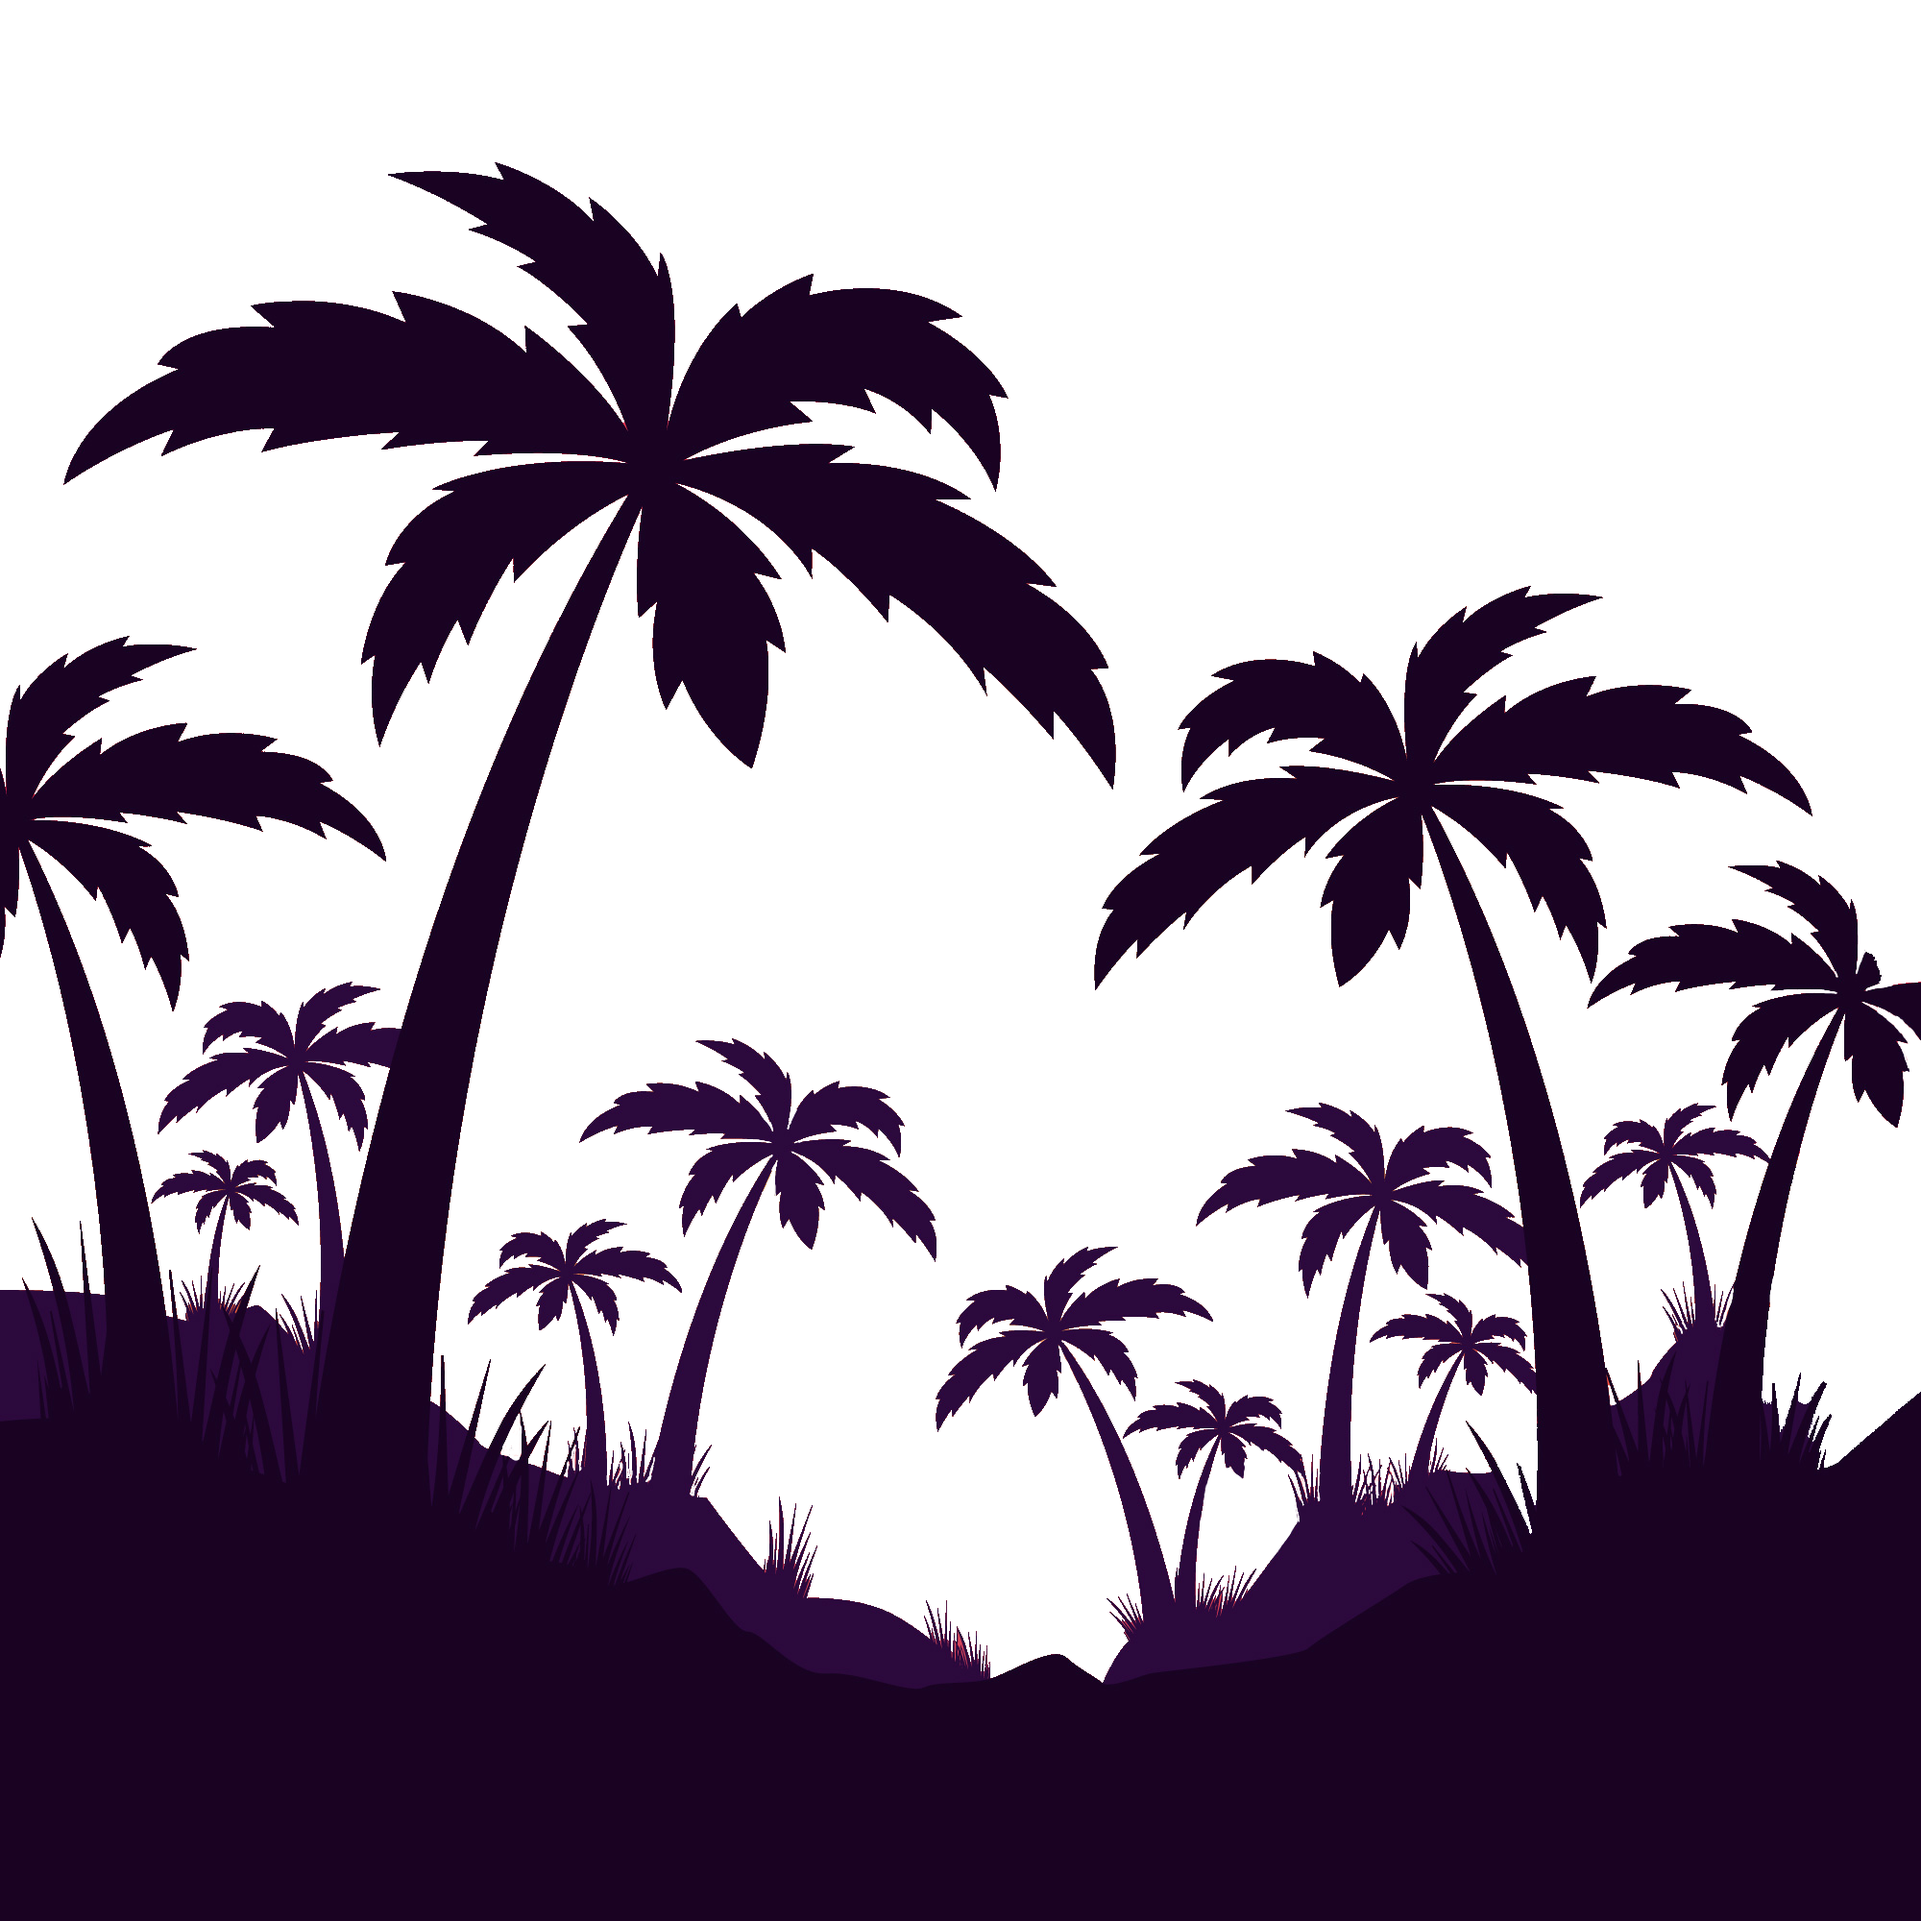
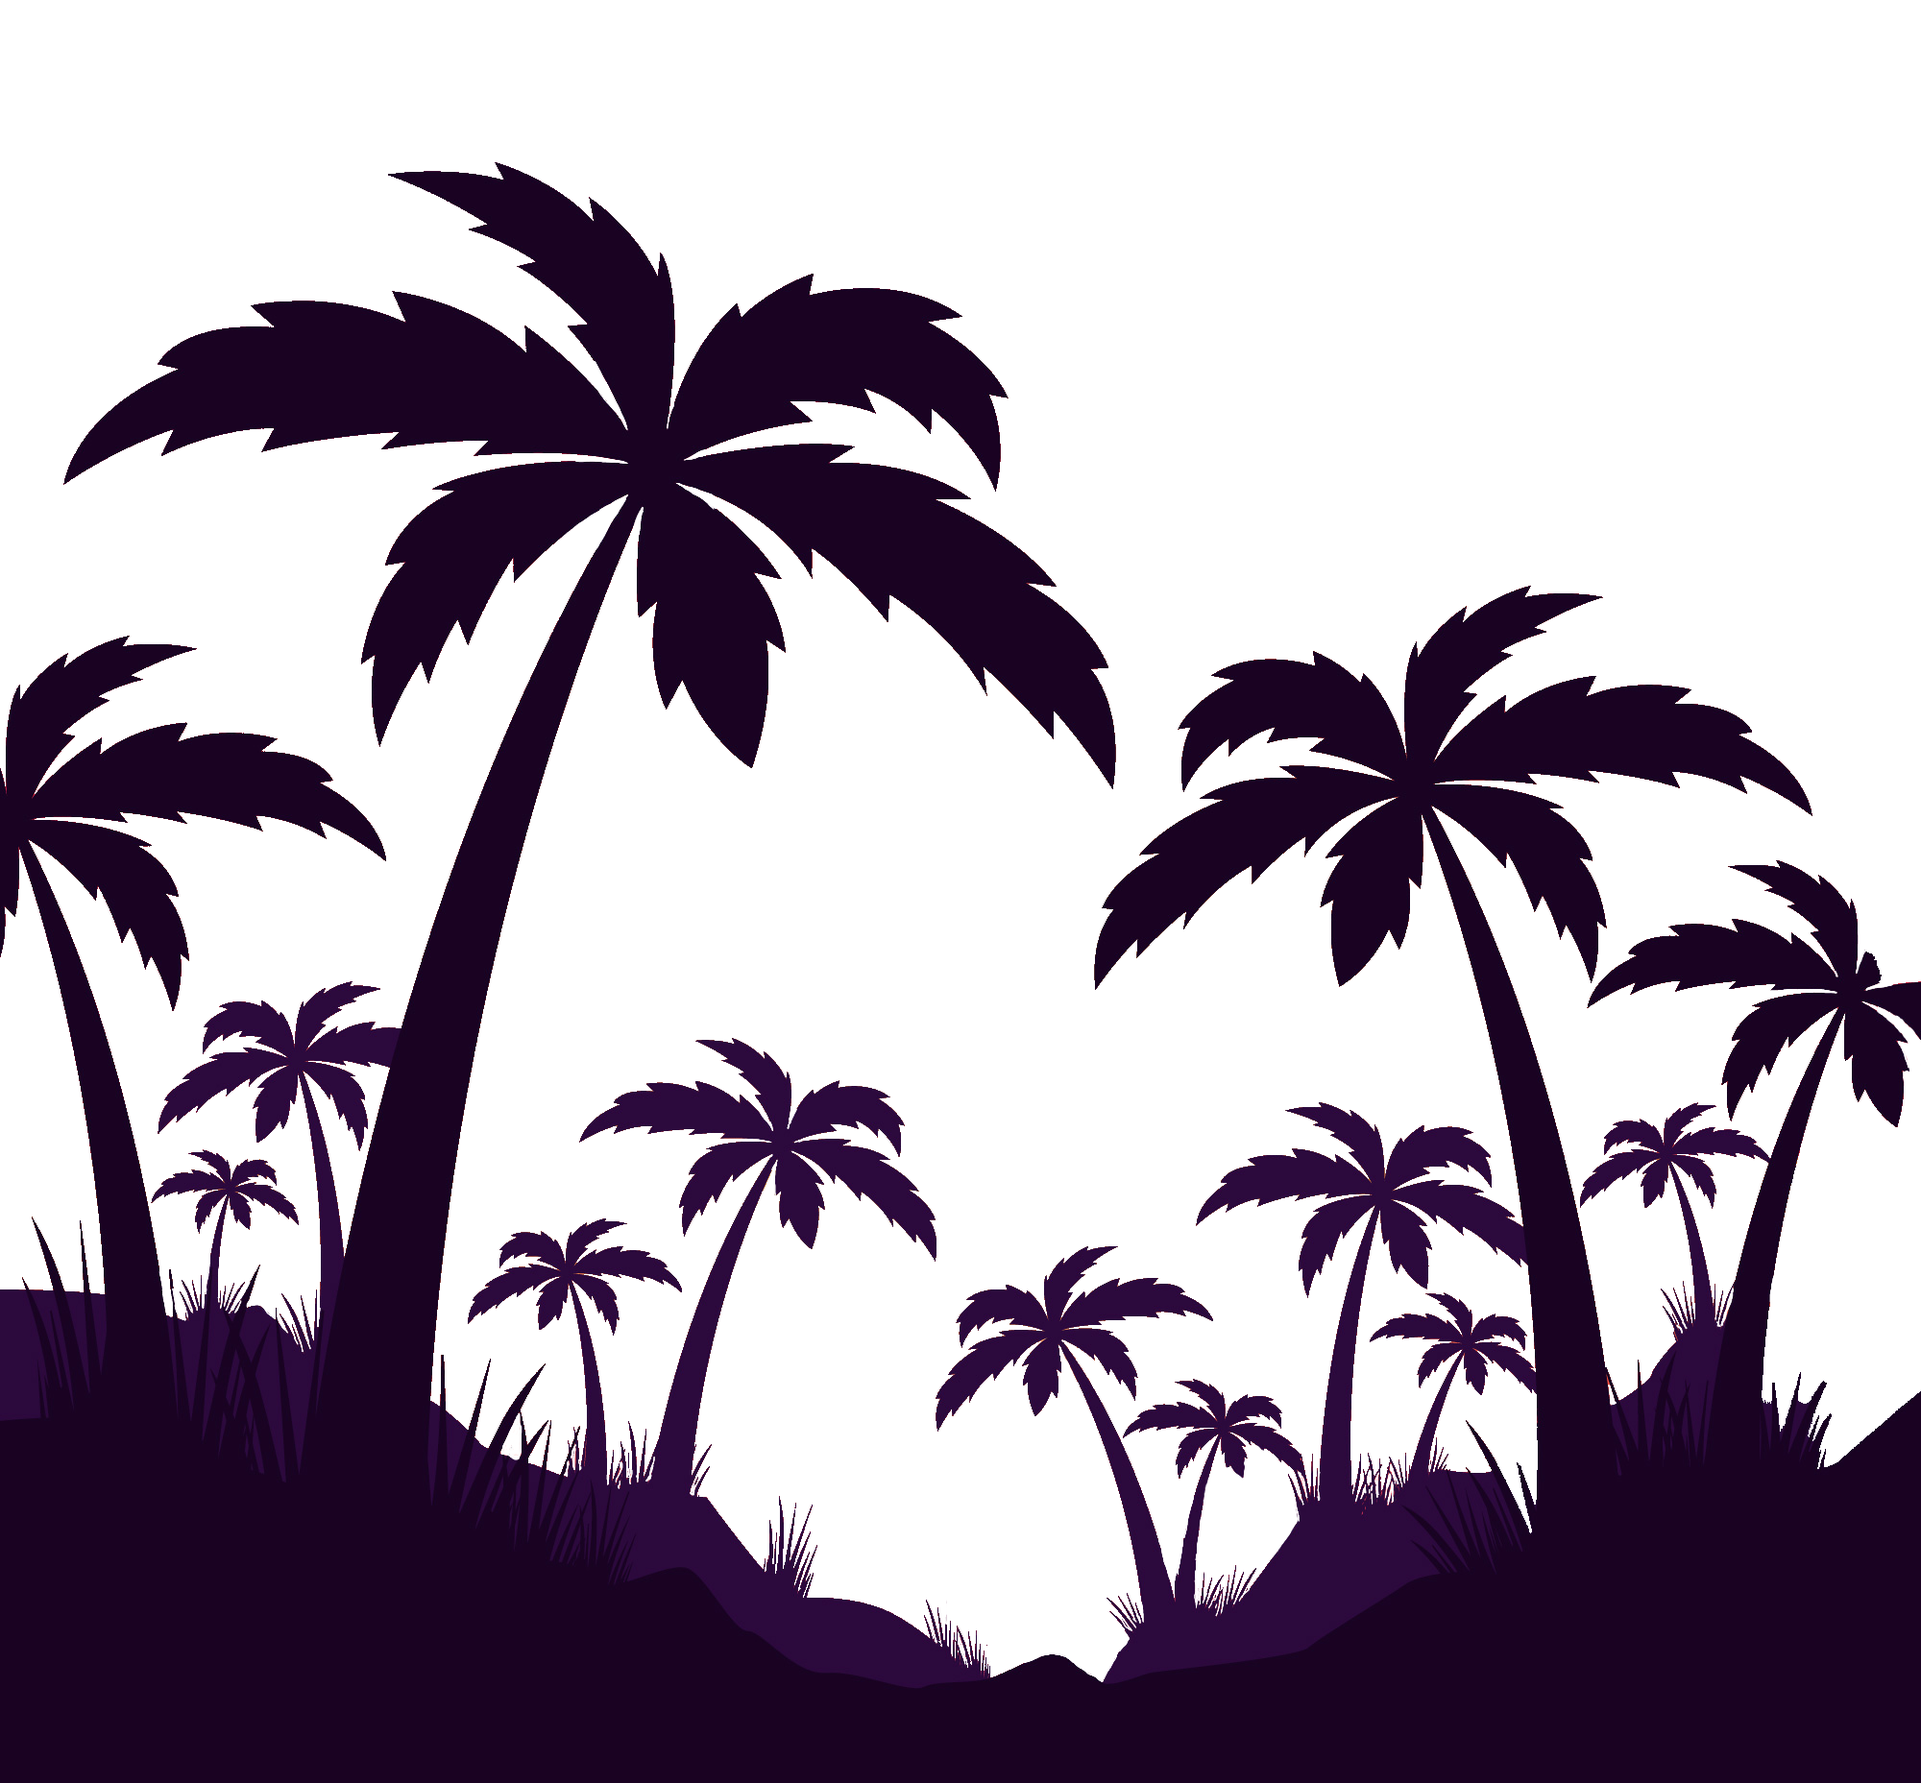
profile page orders added adminPage update

Changed region(s): [[0.0, 0.0625, 1.0, 0.9682], [0.341, 0.3436, 0.403, 0.4373], [0.465, 0.7808, 0.496, 0.8121]]

diff --git a/client/pages/adminPage.vue b/client/pages/adminPage.vue
@@ -1,7 +1,7 @@
 <template>
   <v-app>
-    <div id="main" class="">
-      <LazyHydrate class="z-40" when-idle>
+    <div id="main" class="h-screen w-screen">
+      <LazyHydrate class="z-50" when-idle>
         <Navbar
           v-gsap.to="{
             opacity: 1,
@@ -13,9 +13,10 @@
         />
       </LazyHydrate>
       <div class="w-full h-screen flex place-items-center">
-        <div class="tropicalLeaves absolute w-1/2 top-0">
-          <img src="/TropicalLeaves.png" alt="" />
+         <div class="tropicalLeaves absolute w-1/2 z-0 top-0">
+          <img src="/hat.png" alt="" />
         </div>
+      
         <div
           class="absolute inset-x-0 z-20 shadow-xl w-1/3 md:w-2/5 mx-auto -mt-1"
         >
@@ -181,7 +182,7 @@
                     block: openTab === 1,
                   }"
                 >
-                  <p class="text-black">
+                  <h3 class="text-black text-xl">
                     Collaboratively administrate empowered markets via
                     plug-and-play networks. Dynamically procrastinate B2C users
                     after installed base benefits.
@@ -189,7 +190,7 @@
                     <br />
                     Dramatically visualize customer directed convergence without
                     revolutionary ROI.
-                  </p>
+                  </h3>
                 </div>
                 <div :class="{ hidden: openTab !== 2, block: openTab === 2 }">
                   <div
@@ -249,41 +250,30 @@
                     flex
                     max-w-1/3
                     flex-col
-                    place-items-stretch
+                    place-items-center
                     flex-shrink
                     overflow-y-auto
                     max-h-72
+                    text-xl
                   "
                   :class="{ hidden: openTab !== 3, block: openTab === 3 }"
                 >
-                  <p class="text-black">
-                    Efficiently unleash cross-media information without
-                    cross-media value. Quickly maximize timely deliverables for
-                    real-time schemas.
-                    <br />
-                    <br />
-                    Dramatically maintain clicks-and-mortar solutions without
-                    functional solutions.
-                  </p>
+                  <div class="flex flex row place-content-around">
+                    <p>{{ order.Name }}</p>
+                  </div>
+                  <div
+                    v-for="item in orderProduct"
+                    :key="item.id"
+                    class="flex flex row place-content-around"
+                  >
+                    <p class="text-black">{{ item.item.title }}</p>
+                  </div>
                 </div>
               </div>
             </div>
           </div>
         </div>
-      </div>
-
-      <div
-        class="
-          absolute
-          flex
-          justify-contents-center
-          h-54
-          w-full
-          bottom-0
-          palms
-        "
-      >
-        <img class="w-1/2 self-center" src="/palmtrees.png" alt="" />
+        <img class="absolute palms w-full h-2/3 bottom-0 self-center" src="/palmtrees.png" alt="" />
       </div>
     </div>
   </v-app>
@@ -299,6 +289,26 @@ export default {
     LazyHydrate,
     Adminastration,
     Navbar: () => import('../layouts/Navbar.vue'),
+  },
+  data() {
+    return {
+      Products: [],
+      openTab: 1,
+      order: [],
+      orderProduct: [],
+    }
+  },
+
+  watch: {
+    isOpen: {
+      immediate: true,
+      handler(isOpen) {
+        if (process.client) {
+          if (isOpen) document.body.style.setProperty('overflow', 'hidden')
+          else document.body.style.removeProperty('overflow')
+        }
+      },
+    },
   },
   created() {
     const ref = this.$fire.firestore.collection('Products')
@@ -316,24 +326,22 @@ export default {
         }
       })
     })
-  },
-  data() {
-    return {
-      Products: [],
-      openTab: 1,
-    }
-  },
 
-  watch: {
-    isOpen: {
-      immediate: true,
-      handler(isOpen) {
-        if (process.client) {
-          if (isOpen) document.body.style.setProperty('overflow', 'hidden')
-          else document.body.style.removeProperty('overflow')
-        }
-      },
-    },
+    const orders = this.$fire.firestore
+      .collection('orders')
+      .get()
+      .then((querySnapshot) => {
+        querySnapshot.forEach((doc) => {
+          // doc.data() is never undefined for query doc snapshots
+          this.order = doc.data().order
+          this.orderProduct = doc.data().order.cart
+        })
+      })
+      .catch((err) => {
+        console.log(err)
+      })
+
+    console.log(orders)
   },
   mounted() {
     this.welcome()
@@ -359,11 +367,7 @@ export default {
     welcome() {
       const gsap = this.$gsap
       const tl = gsap.timeline()
-      tl.from('.tropicalLeaves', {
-        duration: 1,
-        y: -300,
-        opacity: 0,
-      })
+      
       tl.from('.palms', {
         y: 300,
         duration: 1,
@@ -374,16 +378,21 @@ export default {
         y: -300,
         opacity: 0,
       })
-      tl.from('.tabBar' , {
-        opacity: 0, 
+      tl.from('.tabBar', {
+        opacity: 0,
         scale: 0.5,
-        duration: 0.5
+        duration: 0.5,
       })
       tl.from('.bees', {
         scale: 0.1,
         duration: 1,
         opacity: 0,
-        y: 200
+        y: 200,
+      })
+      tl.from('.tropicalLeaves', {
+        duration: 1,
+        x: -300,
+        opacity: 0,
       })
     },
     pineapple() {
@@ -440,8 +449,9 @@ input[type='number'] {
   font-family: 'Yanone Kaffeesatz', sans-serif;
 }
 
-.admin{ 
+.admin {
   background-image: url('/sunSet.jpg');
+  font-family: 'Yanone Kaffeesatz';
   background-size: cover;
 }
 

diff --git a/client/components/ProfilePageDialog.vue b/client/components/ProfilePageDialog.vue
@@ -90,7 +90,19 @@
               <v-icon x-large dark>mdi-notebook-check</v-icon>
               <h1 class="text-4xl font-mainFont text-mainRed">
                 <span class="ml-3"> Your Shipping Details </span>
-                <p>{{ order }}</p>
+                <p>{{ order.Name }}</p>
+                <p>{{ order.lastName }}</p>
+                <p>{{ order.City }}</p>
+                <p>{{ order.phoneNumber }}</p>
+                <p>{{ order.Address }}</p>
+                <div
+                  v-for="item in orderProduct"
+                  :key="item.id"
+                  class="flex flex-row justify-contents-around"
+                >
+                  <p>{{ item.item.title }}</p>
+                  <p>{{ item.quantity }}</p>
+                </div>
               </h1>
             </div>
           </div>
@@ -109,7 +121,8 @@ export default {
       emailSending: false,
       displayName: null,
       email: null,
-      order: null,
+      order: [],
+      orderProduct: [],
     }
   },
 
@@ -128,7 +141,8 @@ export default {
       .then((querySnapshot) => {
         querySnapshot.forEach((doc) => {
           // doc.data() is never undefined for query doc snapshots
-          this.order = doc.data()
+          this.order = doc.data().order
+          this.orderProduct = doc.data().order.cart
         })
       })
       .catch((err) => {

diff --git a/client/components/CheckoutDialog.vue b/client/components/CheckoutDialog.vue
@@ -183,9 +183,8 @@
               <div>Icons made by <a href="https://www.flaticon.com/authors/smashicons" title="Smashicons">Smashicons</a> from <a href="https://www.flaticon.com/" title="Flaticon">www.flaticon.com</a></div>
               <a href="https://storyset.com/people">People illustrations by Storyset</a>
               <a href='https://www.freepik.com/vectors/sale'>Sale vector created by macrovector - www.freepik.com</a>
-              <a href='https://www.freepik.com/vectors/tree'>Tree vector created by upklyak - www.freepik.com</a>
-              <a href='https://www.freepik.com/vectors/background'>Background vector created by freepik - www.freepik.com</a>
-              <a href='https://www.freepik.com/vectors/frame'>Frame vector created by upklyak - www.freepik.com</a>
+              <a href='https://www.freepik.com/vectors/tree'>Tree vector created by upklyak - www.freepik.com</a> palm
+              <a href='https://www.freepik.com/photos/background'>Background photo created by valeria_aksakova - www.freepik.com</a> hat
             </div> -->
           </div>
         </div>

diff --git a/client/layouts/Navbar.vue b/client/layouts/Navbar.vue
@@ -61,7 +61,9 @@
             <v-list dense class="space-y-4 p-4">
               <v-list-item>
                 <v-list-item-icon>
-                  <ProfilePageDialog />
+                  <LazyHydrate on-interaction>
+                    <ProfilePageDialog />
+                  </LazyHydrate>
                 </v-list-item-icon>
               </v-list-item>
               <v-list-item>
@@ -106,14 +108,15 @@
       > -->
 
 <script>
+import LazyHydrate from 'vue-lazy-hydration'
 import LoginDialog from '../components/LoginDialog'
-import ProfilePageDialog from '../components/ProfilePageDialog'
 import ShoppingCartDrawer from '../components/ShoppingCartDrawer'
 
 // import axios from 'axios'
 export default {
   components: {
-    ProfilePageDialog,
+    LazyHydrate,
+    ProfilePageDialog: () => import('../components/ProfilePageDialog.vue'),
     LoginDialog,
     ShoppingCartDrawer,
   },

diff --git a/client/pages/index.vue b/client/pages/index.vue
@@ -495,7 +495,6 @@ export default {
             start: 'top bottom',
             scrub: 0.5,
             end: 'top 70%',
-            markers: true,
             trigger: span,
           },
         })
